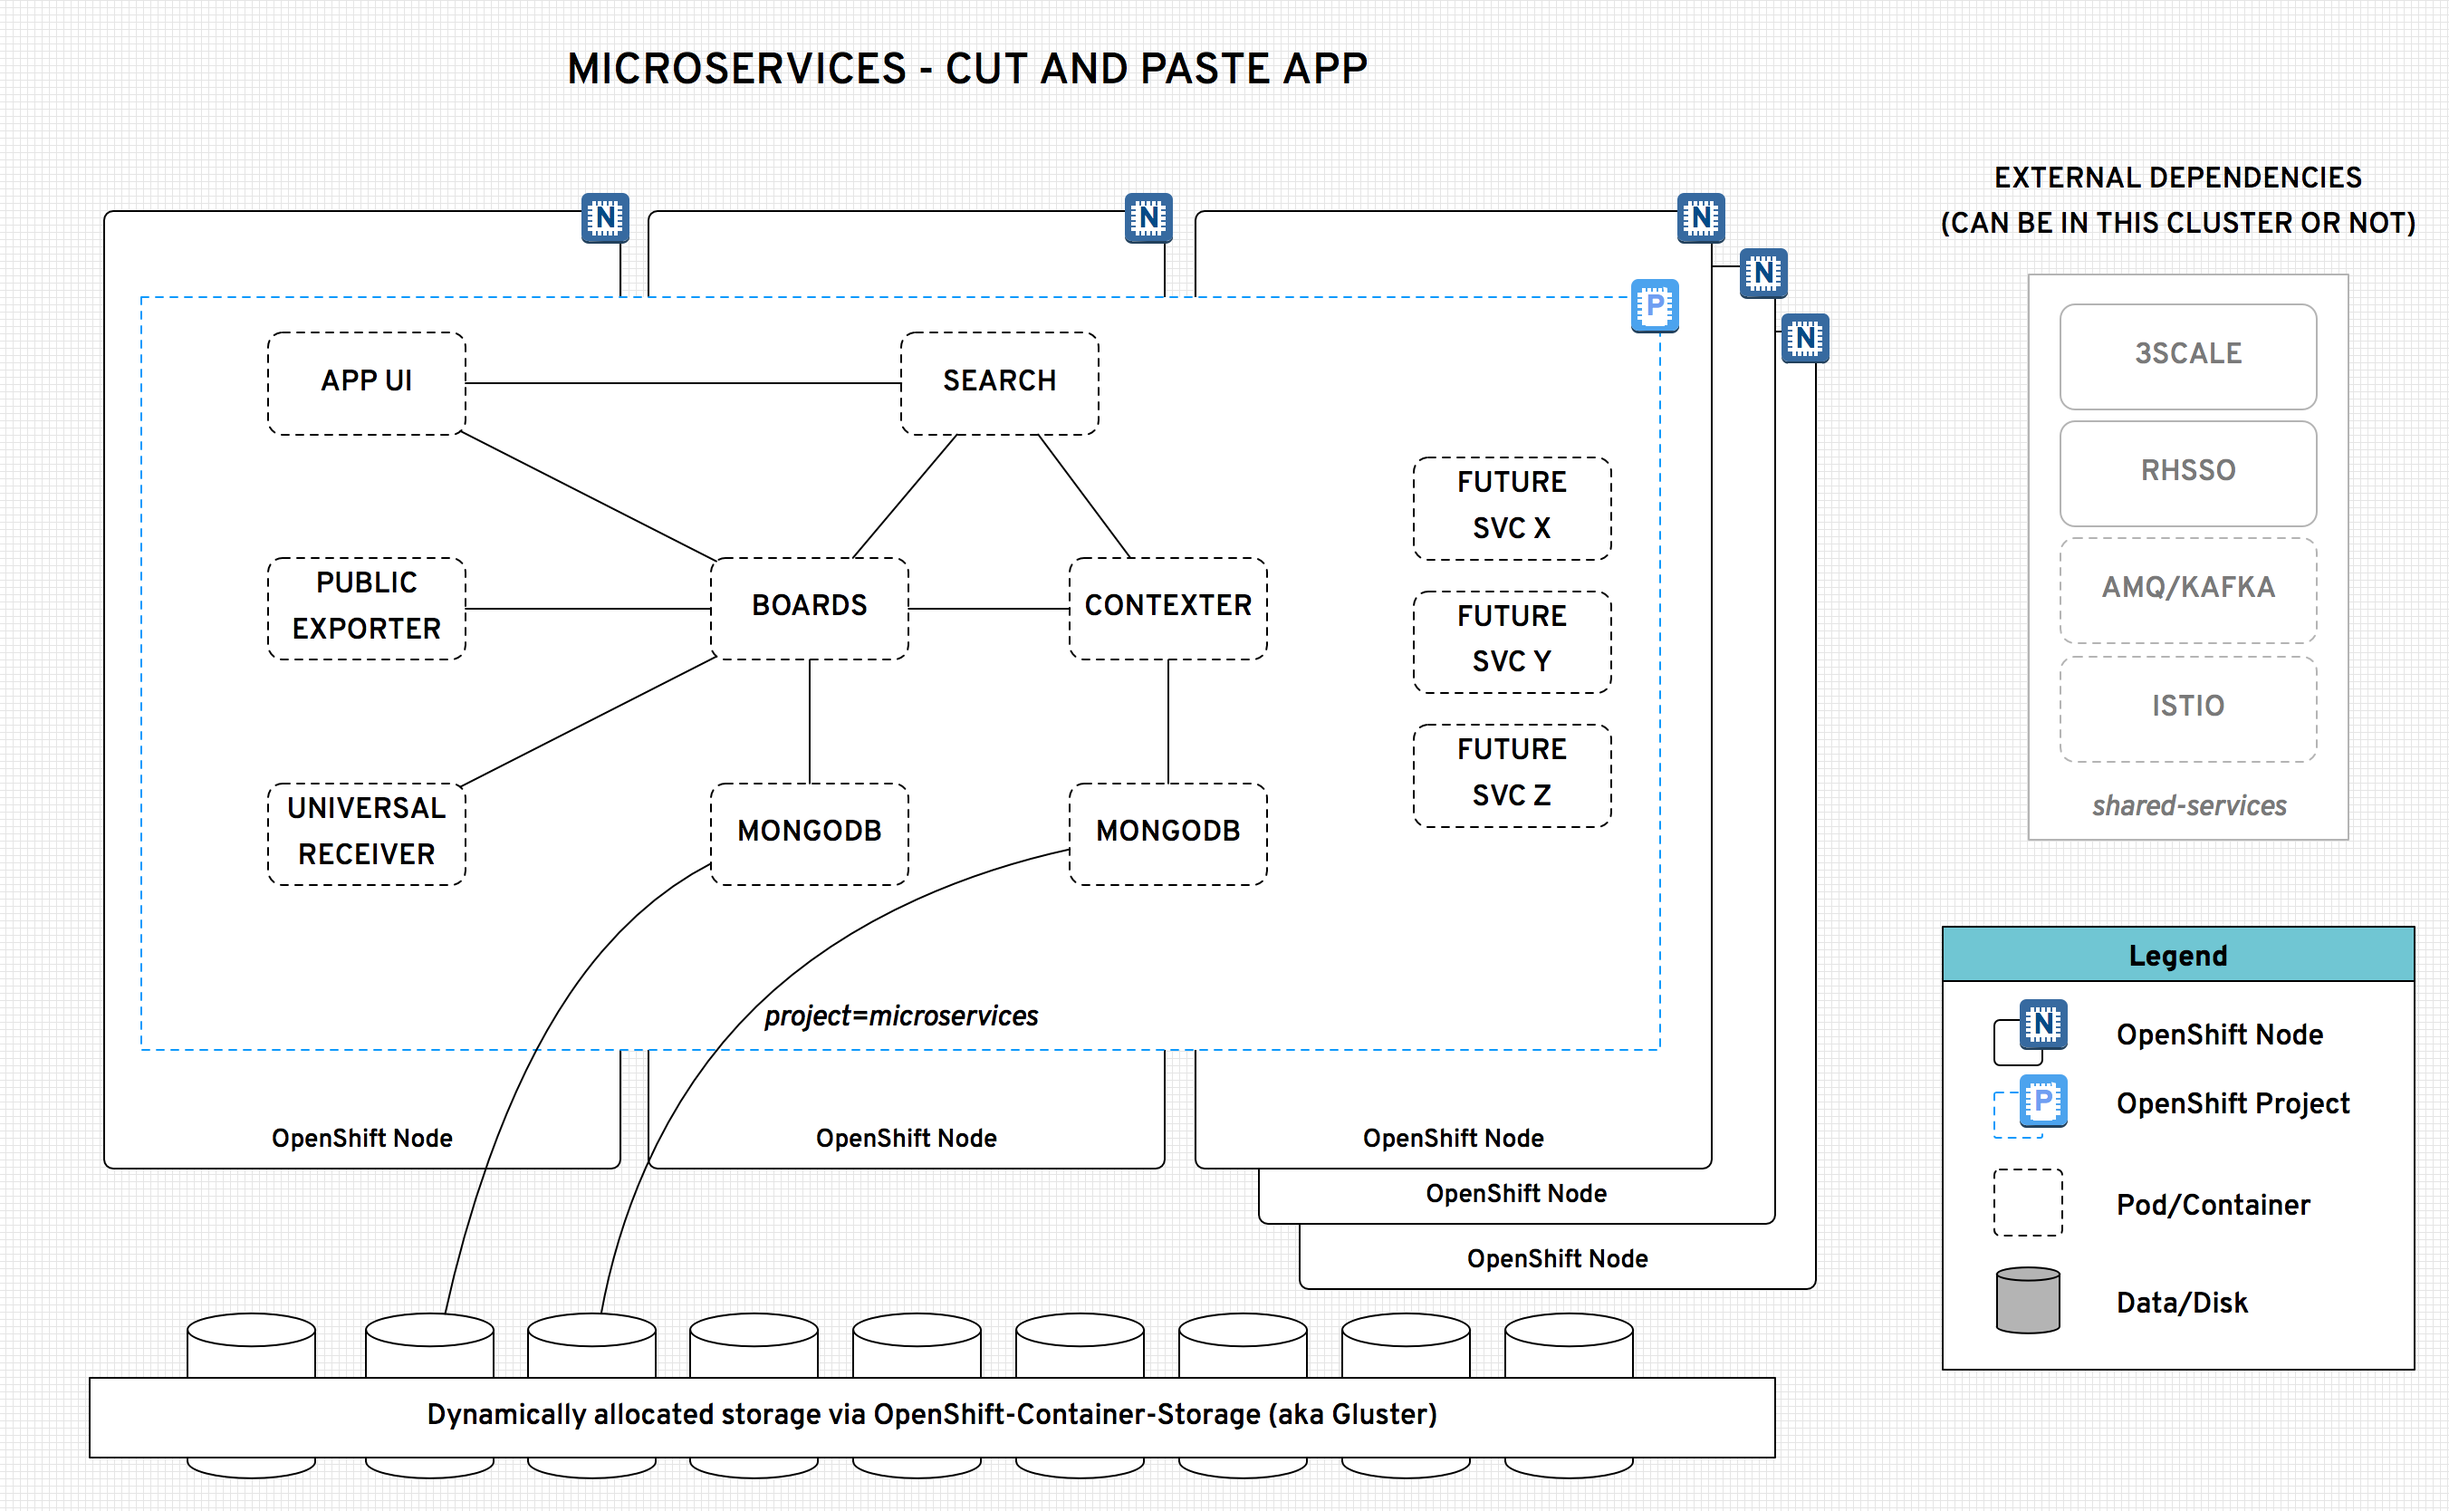
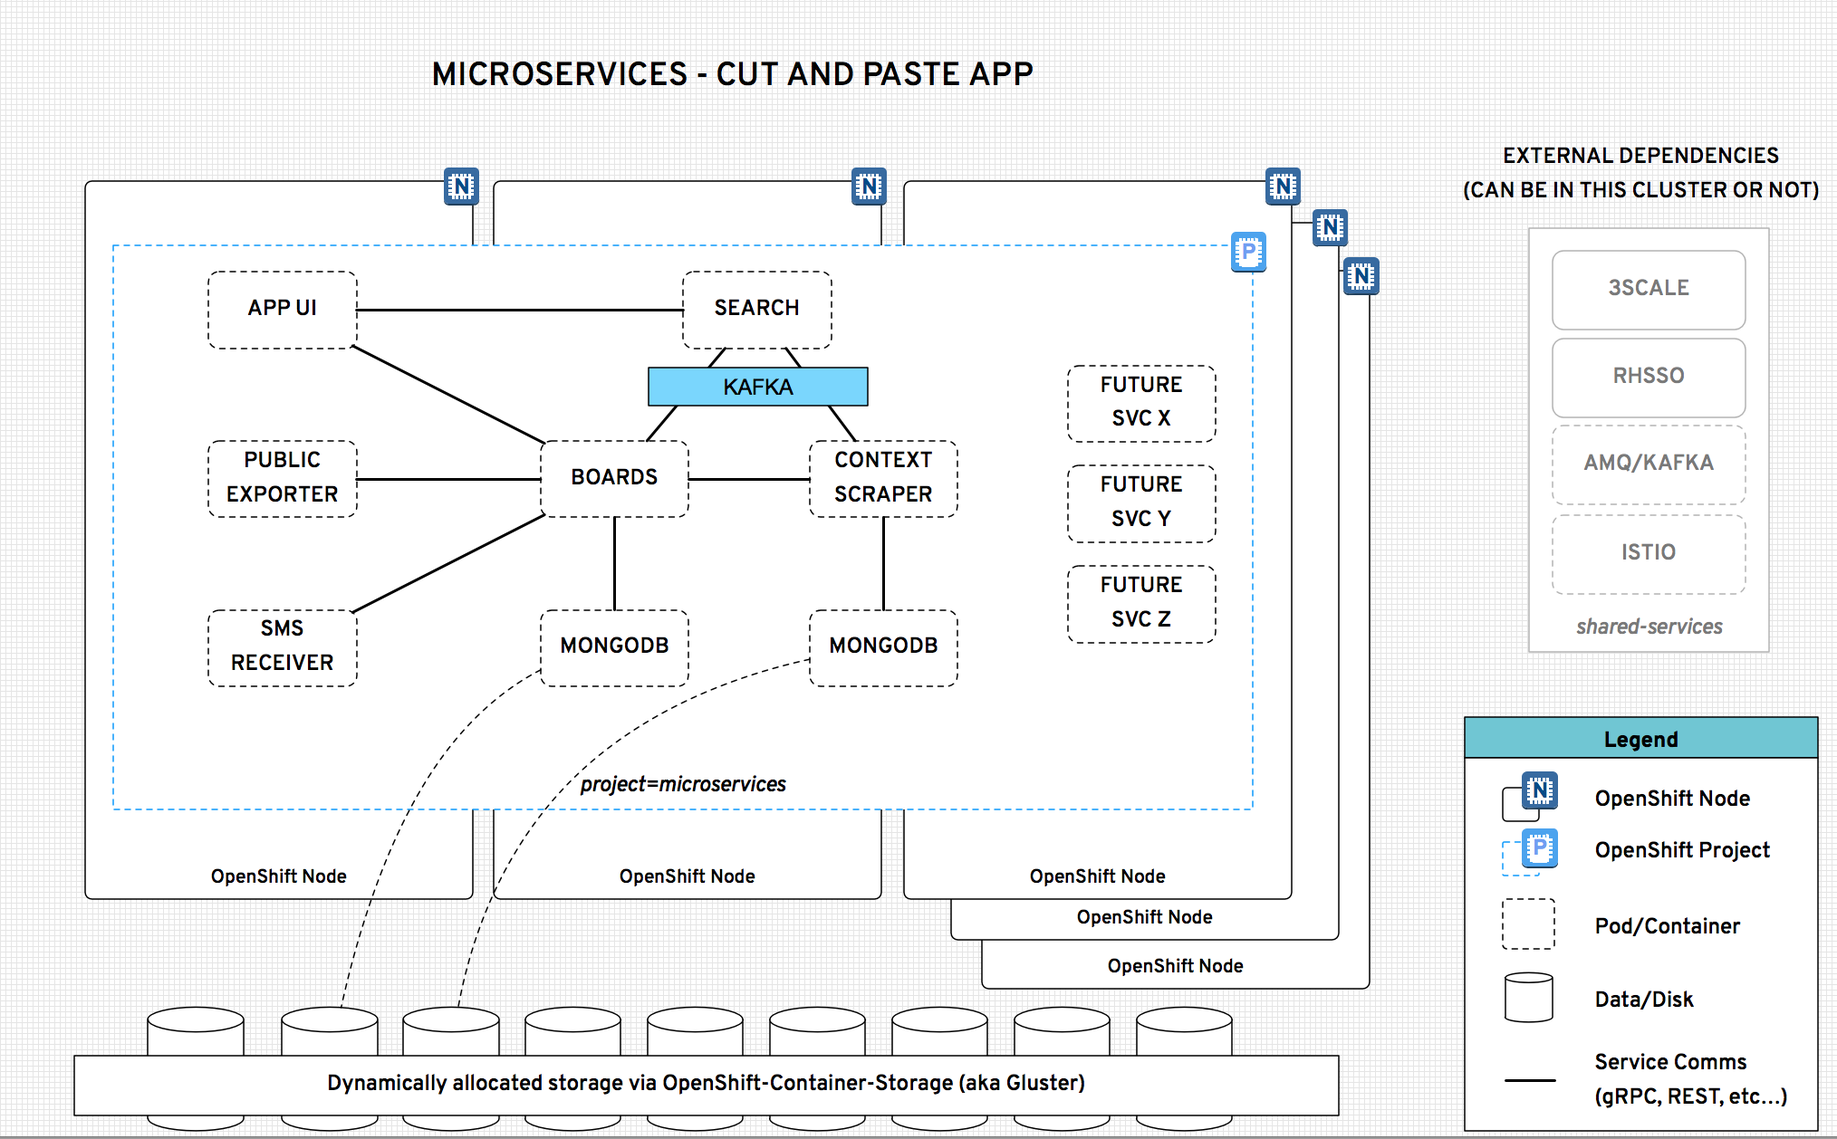
updating diagrams

diff --git a/README.md b/README.md
@@ -11,6 +11,9 @@ Here's what it looks like:
 ![Screenshot](./.screens/microservices.gif)
 
 Here's how it's architected:
+
+![Diagram](.design/highlevel-arch.png)
+
 ![Diagram](.design/ocp-arch.png)
 
 
